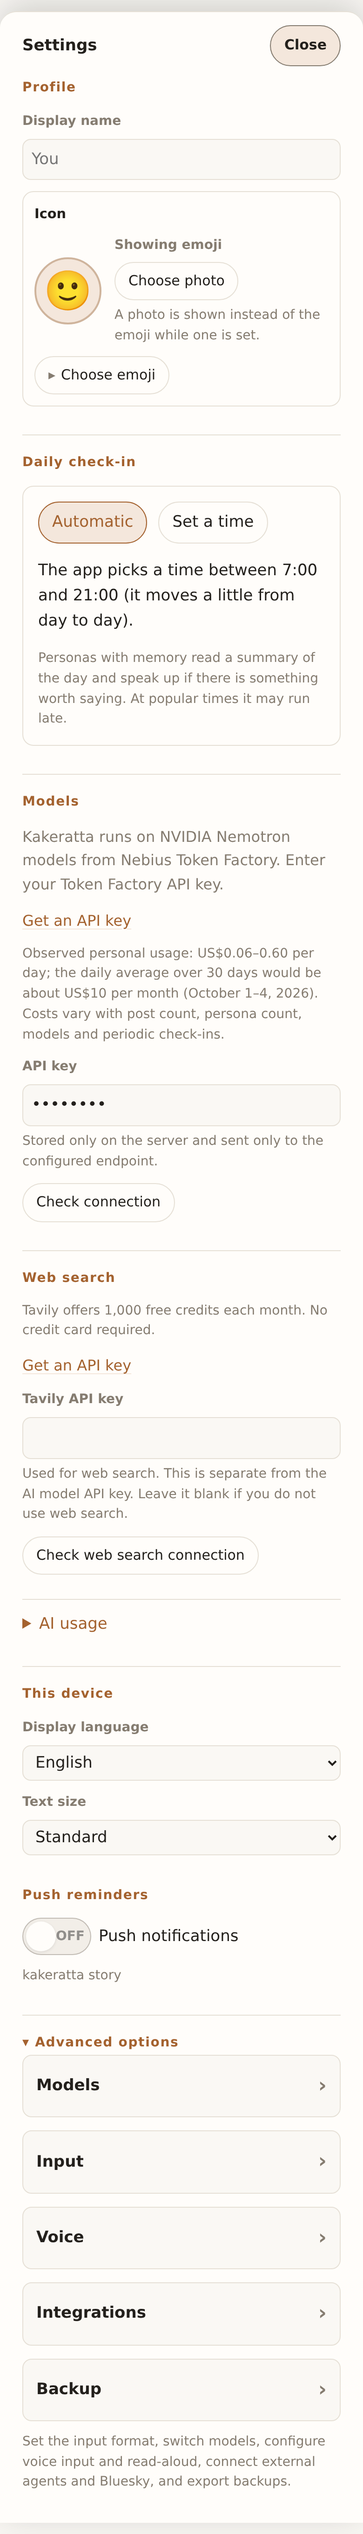
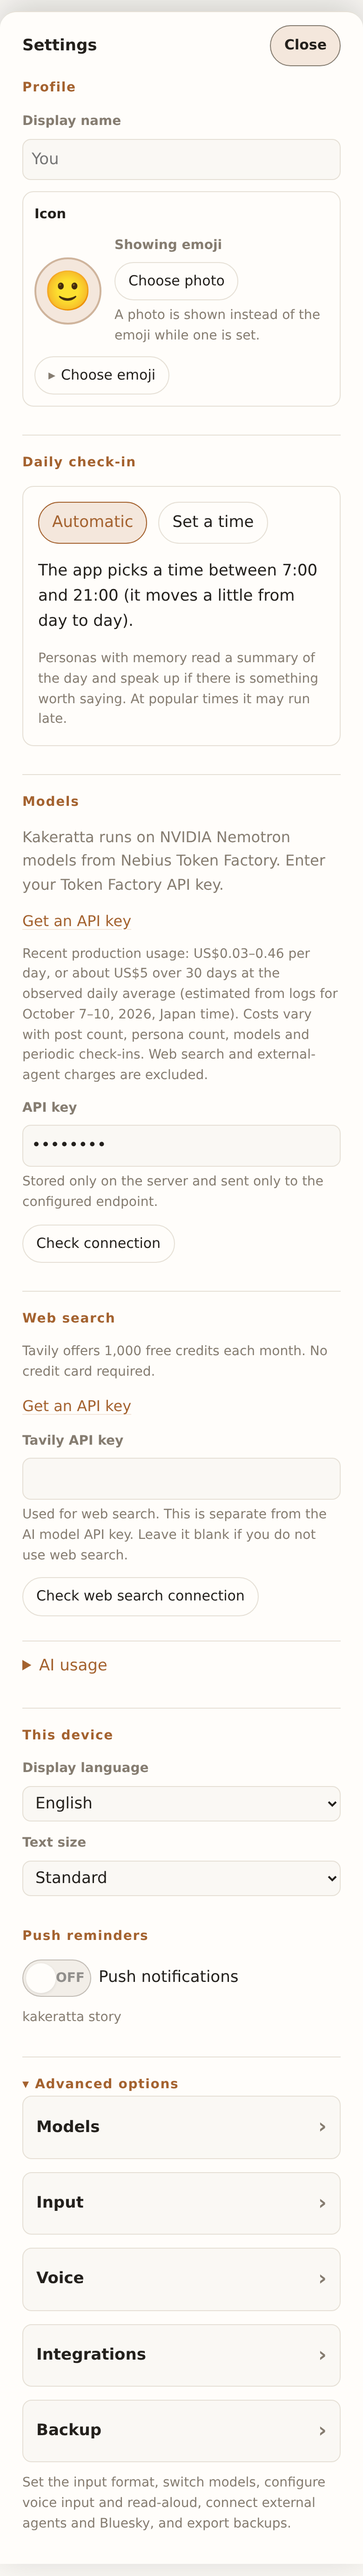
Refresh Settings cost estimate from recent production usage

diff --git a/frontend/src/i18n.js b/frontend/src/i18n.js
@@ -308,7 +308,7 @@ const EN = {
   "終了フレーズで送信するときだけ、lowモデルが意味を変えずに句読点や言いよどみを整えます": "Only when a send phrase triggers posting, the low model tidies punctuation and hesitations while preserving meaning.",
   "文章を整えて送っています…": "Polishing and sending…",
   "Nebius Token FactoryのNVIDIA Nemotronモデルを使います。Token FactoryのAPIキーを入力してください。": "Kakeratta runs on NVIDIA Nemotron models from Nebius Token Factory. Enter your Token Factory API key.",
-  "個人利用の実績：1日0.06〜0.60米ドル、平均を30日換算すると月約10米ドル（2026年10月1〜4日）。費用は投稿数、担当数、モデルや定期チェックインの利用で変わります。": "Observed personal usage: US$0.06–0.60 per day; the daily average over 30 days would be about US$10 per month (October 1–4, 2026). Costs vary with post count, persona count, models and periodic check-ins.",
+  "最近の本番利用例：1日0.03〜0.46米ドル、平均を30日換算すると約5米ドル（2026年10月7〜10日・日本時間のログからの概算）。費用は投稿数、担当数、モデルや定期チェックインの利用で変わります。Web検索・外部エージェントの料金は含みません。": "Recent production usage: US$0.03–0.46 per day, or about US$5 over 30 days at the observed daily average (estimated from logs for October 7–10, 2026, Japan time). Costs vary with post count, persona count, models and periodic check-ins. Web search and external-agent charges are excluded.",
   "さらに20件読み込む": "Load 20 more posts", "もう一度読み込む": "Try loading again",
   "読み込んでいます…": "Loading…", "読み込めませんでした。もう一度お試しください。": "Could not load posts. Please try again.",
     "例：美味しかったワインのラベルを送るので、銘柄やブドウ品種を教えてほしい。": "Example: When I send a photo of a wine label I liked, tell me the wine and its grape varieties.",

diff --git a/frontend/src/settings.js b/frontend/src/settings.js
@@ -152,7 +152,7 @@ export function createSettings({ speaker, onSettings, onMCPChange, closeAccount 
     view.append(
       el("p", { label: "Nebius Token FactoryのNVIDIA Nemotronモデルを使います。Token FactoryのAPIキーを入力してください。" }),
       el("a", { href: "https://tokenfactory.nebius.com", target: "_blank", rel: "noopener noreferrer", text: t("APIキーを取得") }),
-      el("p", { class: "hint", label: "個人利用の実績：1日0.06〜0.60米ドル、平均を30日換算すると月約10米ドル（2026年10月1〜4日）。費用は投稿数、担当数、モデルや定期チェックインの利用で変わります。" }),
+      el("p", { class: "hint", label: "最近の本番利用例：1日0.03〜0.46米ドル、平均を30日換算すると約5米ドル（2026年10月7〜10日・日本時間のログからの概算）。費用は投稿数、担当数、モデルや定期チェックインの利用で変わります。Web検索・外部エージェントの料金は含みません。" }),
     );
     setupHint = el("p", { class: "hint warn", hidden: aiConfigured(settings) },
       el("span", { label: "最初にAI接続を設定してください。設定が完了するまでこの画面は閉じられません。" }),

diff --git a/frontend/manual/index.html b/frontend/manual/index.html
@@ -565,7 +565,7 @@
         <section id="ja-settings">
           <h2>6. 設定とデータ</h2>
           <figure>
-            <img src="/captures/ja/settings.png" alt="設定パネル" loading="lazy" width="390" height="2626" />
+            <img src="/captures/ja/settings.png" alt="設定パネル" loading="lazy" width="390" height="2648" />
             <figcaption>設定パネル。よく使う項目が上に、ほかは「上級オプション」の中にあります。</figcaption>
           </figure>
           <h3>どこに何があるか</h3>
@@ -1185,7 +1185,7 @@
         <section id="en-settings">
           <h2>6. Settings and data</h2>
           <figure>
-            <img src="/captures/en/settings.png" alt="The Settings panel" loading="lazy" width="390" height="2718" />
+            <img src="/captures/en/settings.png" alt="The Settings panel" loading="lazy" width="390" height="2762" />
             <figcaption>The Settings panel. Common items are at the top; the rest are inside Advanced options.</figcaption>
           </figure>
           <h3>Where things are</h3>

diff --git a/docs/production-ai-cost-2026-10-11.md b/docs/production-ai-cost-2026-10-11.md
@@ -1,0 +1,54 @@
+# Recent production AI cost — October 11, 2026
+
+The Settings cost reference now uses four complete JST days, **October 7–10, 2026**. The recorded AI calls total **US$0.67668243**, or **US$0.1691706075 per day**. Repeating this workload for 30 days would yield **US$5.075118225**; the UI shows the observed daily range as US$0.03–0.46 and rounds the 30-day extrapolation to about US$5.
+
+## Scope and evidence
+
+- Retrieved October 11, 2026, from the shared-VM production project `geminihub-486523`.
+- 234 records with distinct insert IDs, covering the production web and worker services. The 20,000-record query limit was not reached.
+- All records are Nebius calls with reported input and output token counts and known model rates. 0 records have a non-success outcome.
+- Query covers midnight October 7 through midnight October 11 JST; it excludes the incomplete current day.
+- Private raw logs stay in ignored `tmp/recent-production-model-usage-four-days.json`; no prompts, entry IDs or persona identities are included here.
+
+```sh
+gcloud logging read 'resource.type="gce_instance" AND labels.service_name:"kakeratta" AND timestamp>="2026-10-06T15:00:00Z" AND timestamp<"2026-10-10T15:00:00Z" AND jsonPayload.path="model-usage"' --project=geminihub-486523 --limit=20000 --order=asc --format=json
+```
+
+## Rates and limitations
+
+Rates match [internal/usage/usage.go](../internal/usage/usage.go), checked against the official [Nemotron](https://nebius.com/services/token-factory/models/nvidia-nemotron-models-inference) and [Qwen](https://nebius.com/services/token-factory/models/qwen-models-inference) pages on October 11: Super US$0.30/0.90 and Ultra US$1.00/3.00 per million input/output tokens; Embedding US$0.01 per million input tokens.
+
+Costs are public-rate estimates from reported token counts, not reconciled invoices. Reasoning and cache counts are breakdowns and are not added again. Discounts, credits, search, infrastructure, development calls outside these services, and direct external-agent charges are excluded. The observation window and workload differ from October 1–4; this is a new usage example, not a controlled measurement of a saving percentage. The two most recent days alone cost US$0.06113692, which extrapolates to only US$0.92 over 30 days. Including October 7–8 captures heavier use and produces the broader four-day reference. October 7 includes work before some of the recent optimizations; this is a recent production example spanning those changes, not an exclusively post-change benchmark.
+
+## Daily totals (JST)
+
+| Date | Calls | Input tokens | Output tokens | Estimated USD |
+| --- | ---: | ---: | ---: | ---: |
+| 2026-10-07 | 145 | 625,602 | 98,335 | 0.45960127 |
+| 2026-10-08 | 52 | 314,706 | 18,813 | 0.15594424 |
+| 2026-10-09 | 16 | 82,978 | 4,385 | 0.02881960 |
+| 2026-10-10 | 21 | 79,360 | 4,521 | 0.03231732 |
+
+## Models
+
+| Model | Calls | Input tokens | Output tokens | Estimated USD |
+| --- | ---: | ---: | ---: | ---: |
+| Qwen/Qwen3-Embedding-8B | 56 | 20,203 | 0 | 0.00020203 |
+| nvidia/Nemotron-3-Ultra-550b-a55b | 10 | 112,430 | 75,999 | 0.34042700 |
+| nvidia/nemotron-3-super-120b-a12b | 168 | 970,013 | 50,055 | 0.33605340 |
+
+## Purposes
+
+| Purpose | Calls | Input tokens | Output tokens | Estimated USD |
+| --- | ---: | ---: | ---: | ---: |
+| answer | 70 | 485,091 | 87,019 | 0.45766750 |
+| daily_summary | 2 | 4,912 | 5,787 | 0.00668190 |
+| embedding | 56 | 20,203 | 0 | 0.00020203 |
+| memory_summary | 4 | 10,066 | 1,117 | 0.00402510 |
+| memory_update | 8 | 30,847 | 2,956 | 0.01191450 |
+| monthly_summary | 2 | 52,078 | 14,625 | 0.02878590 |
+| persona_builder | 1 | 3,166 | 1,076 | 0.00639400 |
+| plan_schedule | 26 | 112,313 | 2,973 | 0.03636960 |
+| research | 48 | 351,224 | 5,739 | 0.11053230 |
+| review | 1 | 2,782 | 236 | 0.00104700 |
+| routing | 16 | 29,964 | 4,526 | 0.01306260 |

diff --git a/docs/system/frontend.md b/docs/system/frontend.md
@@ -60,7 +60,7 @@ Verification: [memory.test.js](../../tests/memory.test.js) (records after fields
 
 ## API key setup
 
-Settings links to Token Factory to obtain the inference API key. Beside this link, it displays an observed personal-use cost reference of US$0.06–0.60 per day from October 1–4, 2026, with the daily average extrapolated to about US$10 over 30 days. This reference uses the operator-provided daily charges of US$0.45, US$0.60, US$0.26 and US$0.06 (US$1.37 total); it is not a fixed quote for a particular number of posts or answers. The hint explains that post count, persona count, models and periodic check-ins affect costs. The Web Search section links to Tavily's key registration page and explains its 1,000 free credits per month with no credit card required, in Japanese and English. The search key remains separate from the inference key and is optional when web search is unused. The **毎日の振り返り / Daily check-in** section offers **おまかせ / Automatic** (empty `dailyTime`, the app's own minute) and **時刻を指定 / Set a time**, which shows a large time input (08:00 when first chosen) saved as `dailyTime`; its hint says personas with memory speak up only if there is something worth saying, and that a run can start late at popular times. The `settings--daily-time` story shows the set state. The server accepts only `HH:MM` or empty. See [settings.js](../../frontend/src/settings.js), [i18n.js](../../frontend/src/i18n.js), and [Tavily credits and pricing](https://docs.tavily.com/documentation/api-credits).
+Settings links to Token Factory to obtain the inference API key. Beside this link, it displays a recent production-use estimate of US$0.03–0.46 per day, or about US$5 over 30 days at the observed daily average, based on October 7–10, 2026 (JST) logs. The four days total an estimated US$0.67668243 across 234 calls; the daily mean is US$0.1691706075 and its 30-day extrapolation is US$5.075118225. This is a token-based estimate, not a provider invoice or a fixed quote. The hint explains that posts, personas, models and periodic check-ins affect costs and excludes Web search and external-agent charges. See the [production cost snapshot](../production-ai-cost-2026-10-11.md) for the query, rates and limitations. The Web Search section links to Tavily's key registration page and explains its 1,000 free credits per month with no credit card required, in Japanese and English. The search key remains separate from the inference key and is optional when web search is unused. The **毎日の振り返り / Daily check-in** section offers **おまかせ / Automatic** (empty `dailyTime`, the app's own minute) and **時刻を指定 / Set a time**, which shows a large time input (08:00 when first chosen) saved as `dailyTime`; its hint says personas with memory speak up only if there is something worth saying, and that a run can start late at popular times. The `settings--daily-time` story shows the set state. The server accepts only `HH:MM` or empty. See [settings.js](../../frontend/src/settings.js), [i18n.js](../../frontend/src/i18n.js), and [Tavily credits and pricing](https://docs.tavily.com/documentation/api-credits).
 
 ## Monthly AI usage
 
